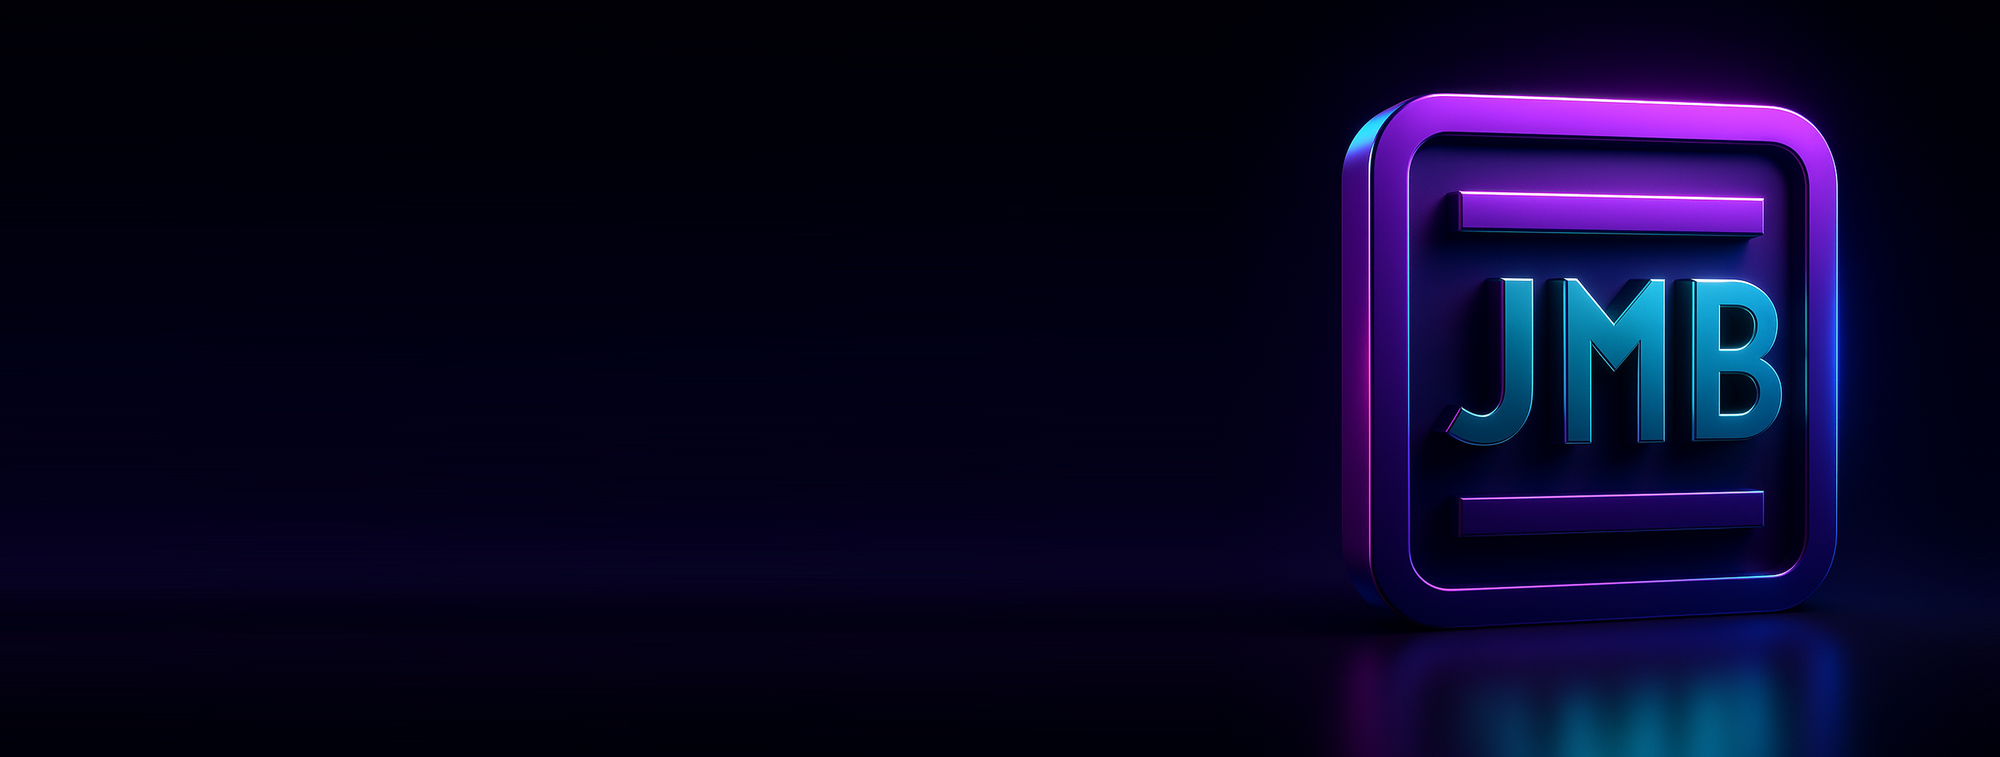
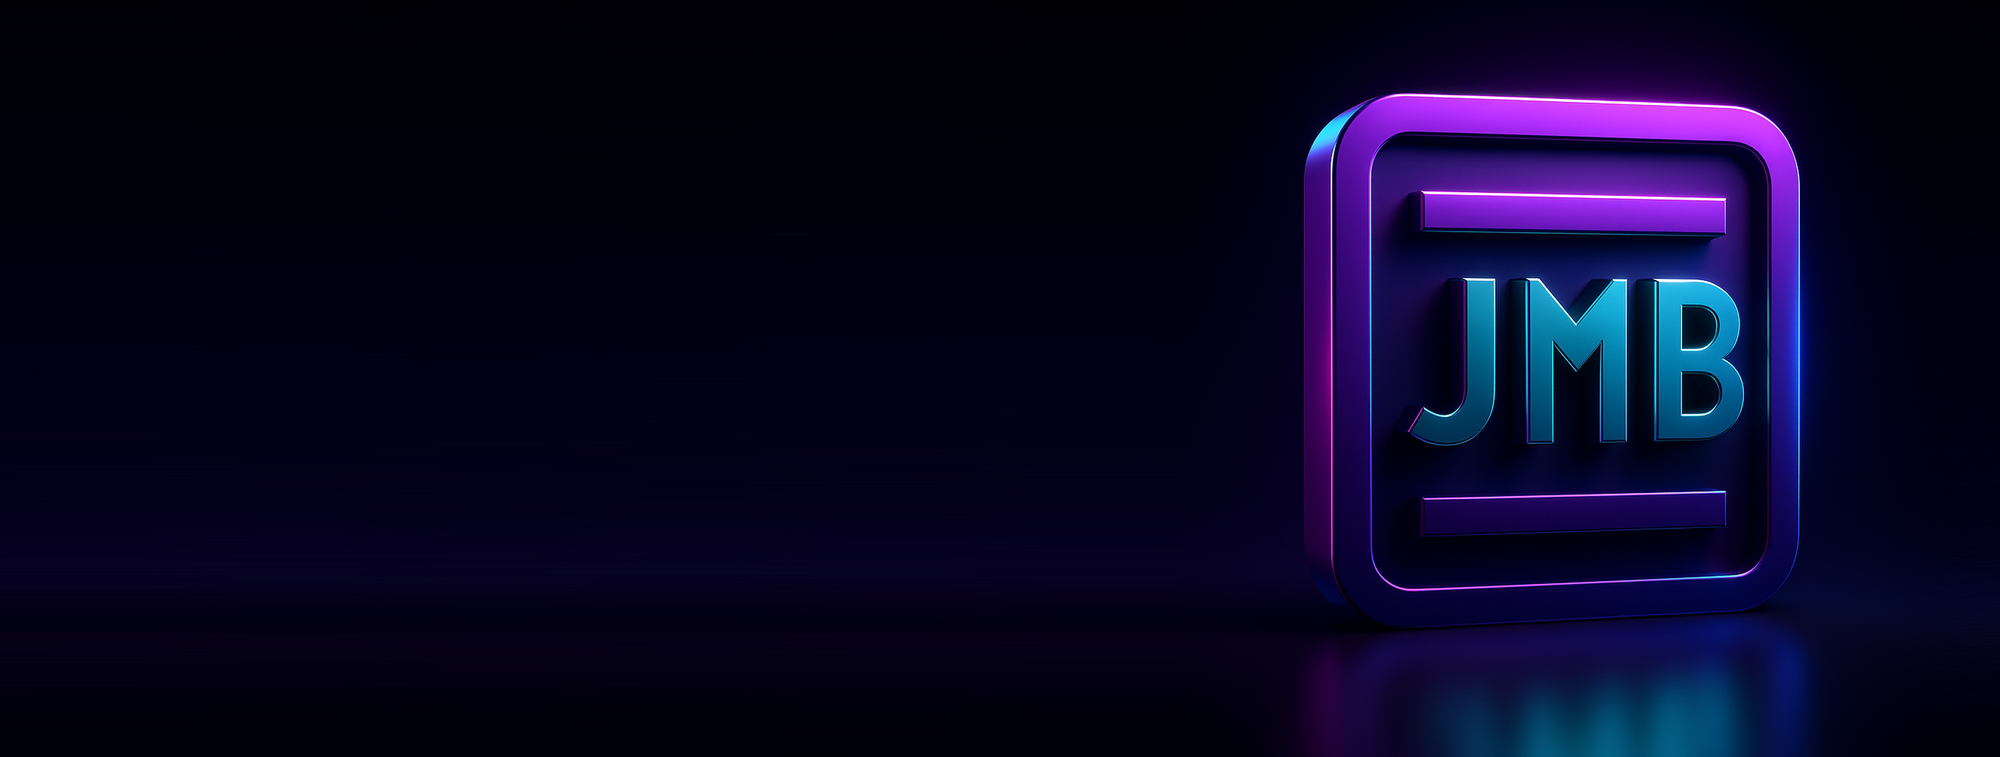
Remove power FAQ, update Power spec (built-in PSU + one PSU/battery options), badge more edge margin, overflow-x safety

Changed region(s): [[0.651, 0.1215, 0.93, 1.0], [0.651, 0.8811, 0.713, 1.0]]

diff --git a/index.html b/index.html
@@ -23,7 +23,7 @@
   :root{ --bg:#0b0b16; --bg2:#12122a; --card:#15162b; --line:#262742;
           --text:#ececf6; --dim:#9a9ac2; --pur:#6a2cf5; --pur2:#c53cff; --cy:#5fd7ff; }
   *{ box-sizing:border-box; }
-  html{ scroll-behavior:smooth; }
+  html{ scroll-behavior:smooth; overflow-x:hidden; }
   body{ margin:0; background:var(--bg); color:var(--text);
     font:16px/1.6 system-ui,'Segoe UI',Roboto,Helvetica,Arial,sans-serif;
     -webkit-font-smoothing:antialiased; }
@@ -200,7 +200,7 @@
 <section id="specs"><div class="wrap">
   <h2>Specifications</h2>
   <p class="sub">Indicative — the platform is in development, so some figures may firm up before release.</p>
-  <table class="spectable"><tbody><tr><th>Outputs</th><td>1 / 4 / 8 independent, depending on model</td></tr><tr><th>Output type</th><td>RGB or tuneable white (RGBW / CW-WW) per port</td></tr><tr><th>Current</th><td>Up to ~6.5&nbsp;A per output — configurable per-port limit</td></tr><tr><th>Dimming</th><td>16-bit, temporally dithered</td></tr><tr><th>PWM frequency</th><td>8 / 20 / 62.5&nbsp;kHz (camera) — selectable per port</td></tr><tr><th>Wired &amp; wireless in</th><td>DMX512 (5-pin) · CRMX (LumenRadio) · full RDM (E1.20 / E1.37-1)</td></tr><tr><th>App control</th><td>Bluetooth&nbsp;LE via the web app — no account, no cloud</td></tr><tr><th>Effects</th><td>21 built-in dynamic looks, with rig-wide tempo &amp; spread</td></tr><tr><th>Protection</th><td>Per-port over-current (µs trip), short, thermal foldback, ground-fault, comms failsafe</td></tr><tr><th>Telemetry</th><td>Per-port current (±1%), temperature, faults, source</td></tr><tr><th>Front panel</th><td>Rotary encoder + OLED</td></tr><tr><th>Firmware updates</th><td>Wireless over Bluetooth, with automatic rollback</td></tr><tr><th>Supply</th><td>12 or 24&nbsp;V DC</td></tr><tr><th>Made in</th><td>United Kingdom</td></tr></tbody></table>
+  <table class="spectable"><tbody><tr><th>Outputs</th><td>1 / 4 / 8 independent, depending on model</td></tr><tr><th>Output type</th><td>RGB or tuneable white (RGBW / CW-WW) per port</td></tr><tr><th>Current</th><td>Up to ~6.5&nbsp;A per output — configurable per-port limit</td></tr><tr><th>Dimming</th><td>16-bit, temporally dithered</td></tr><tr><th>PWM frequency</th><td>8 / 20 / 62.5&nbsp;kHz (camera) — selectable per port</td></tr><tr><th>Wired &amp; wireless in</th><td>DMX512 (5-pin) · CRMX (LumenRadio) · full RDM (E1.20 / E1.37-1)</td></tr><tr><th>App control</th><td>Bluetooth&nbsp;LE via the web app — no account, no cloud</td></tr><tr><th>Effects</th><td>21 built-in dynamic looks, with rig-wide tempo &amp; spread</td></tr><tr><th>Protection</th><td>Per-port over-current (µs trip), short, thermal foldback, ground-fault, comms failsafe</td></tr><tr><th>Telemetry</th><td>Per-port current (±1%), temperature, faults, source</td></tr><tr><th>Front panel</th><td>Rotary encoder + OLED</td></tr><tr><th>Firmware updates</th><td>Wireless over Bluetooth, with automatic rollback</td></tr><tr><th>Power</th><td>Built-in PSU on 4our &amp; 8ight; the one runs from a 12&nbsp;V or 24&nbsp;V PSU or a battery pack</td></tr><tr><th>Made in</th><td>United Kingdom</td></tr></tbody></table>
 </div></section>
 
 <section class="appband" id="app"><div class="wrap"><div class="row">
@@ -251,7 +251,7 @@
 <section id="faq" style="background:var(--bg2)"><div class="wrap">
   <h2>FAQ</h2>
   <p class="sub">The questions a gaffer or a spark usually asks first.</p>
-  <details class="faq"><summary>Will it work with my lighting console?</summary><p>Yes — standard DMX512 in on 5-pin, or CRMX wireless (LumenRadio), with full RDM for remote addressing, personality and sensor feedback.</p></details><details class="faq"><summary>Do I need the app, or an account?</summary><p>The app is optional. Set up and run everything over Bluetooth with no account and no cloud — or use the front-panel encoder and screen. Nothing is collected.</p></details><details class="faq"><summary>iPhone or Android?</summary><p>Chrome or Edge on Android and desktop. On iPhone, use the Bluefy browser (both use Web&nbsp;Bluetooth). Add it to your home screen to run it like an app.</p></details><details class="faq"><summary>What power does it need?</summary><p>12 or 24&nbsp;V DC — match your LED strip's voltage. All the protection is current- and temperature-based, so it behaves the same on either rail.</p></details><details class="faq"><summary>Is it really flicker-free on camera?</summary><p>Yes — high-frequency PWM up to 62.5&nbsp;kHz with 16-bit dithered dimming, so the output stays clean through high-speed capture and slow-motion.</p></details><details class="faq"><summary>When can I buy one?</summary><p>It's in development. Register your interest and we'll let you know the moment it's ready.</p></details>
+  <details class="faq"><summary>Will it work with my lighting console?</summary><p>Yes — standard DMX512 in on 5-pin, or CRMX wireless (LumenRadio), with full RDM for remote addressing, personality and sensor feedback.</p></details><details class="faq"><summary>Do I need the app, or an account?</summary><p>The app is optional. Set up and run everything over Bluetooth with no account and no cloud — or use the front-panel encoder and screen. Nothing is collected.</p></details><details class="faq"><summary>iPhone or Android?</summary><p>Chrome or Edge on Android and desktop. On iPhone, use the Bluefy browser (both use Web&nbsp;Bluetooth). Add it to your home screen to run it like an app.</p></details><details class="faq"><summary>Is it really flicker-free on camera?</summary><p>Yes — high-frequency PWM up to 62.5&nbsp;kHz with 16-bit dithered dimming, so the output stays clean through high-speed capture and slow-motion.</p></details><details class="faq"><summary>When can I buy one?</summary><p>It's in development. Register your interest and we'll let you know the moment it's ready.</p></details>
 </div></section>
 
 <section class="contact" id="contact"><div class="wrap">
